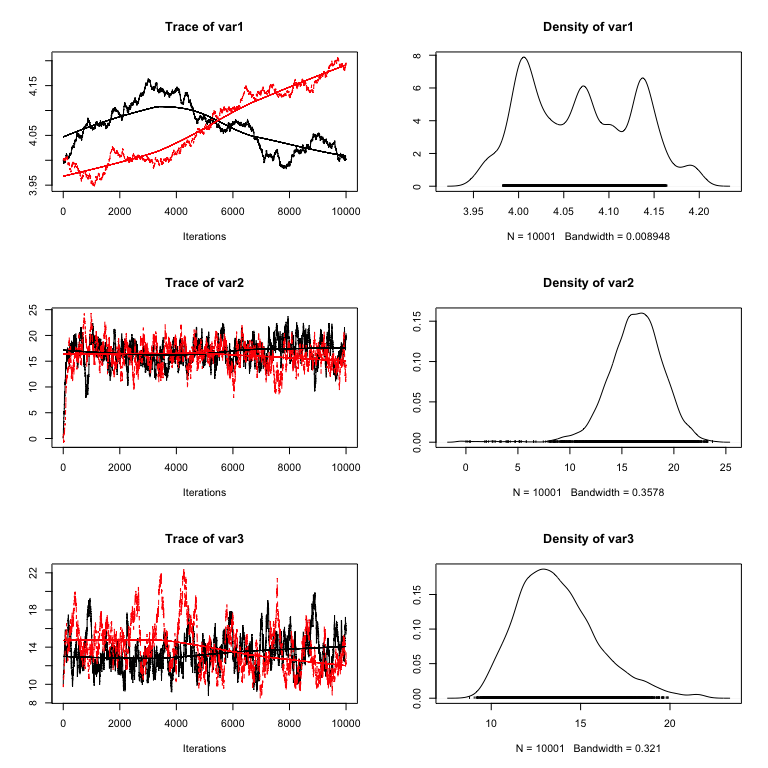
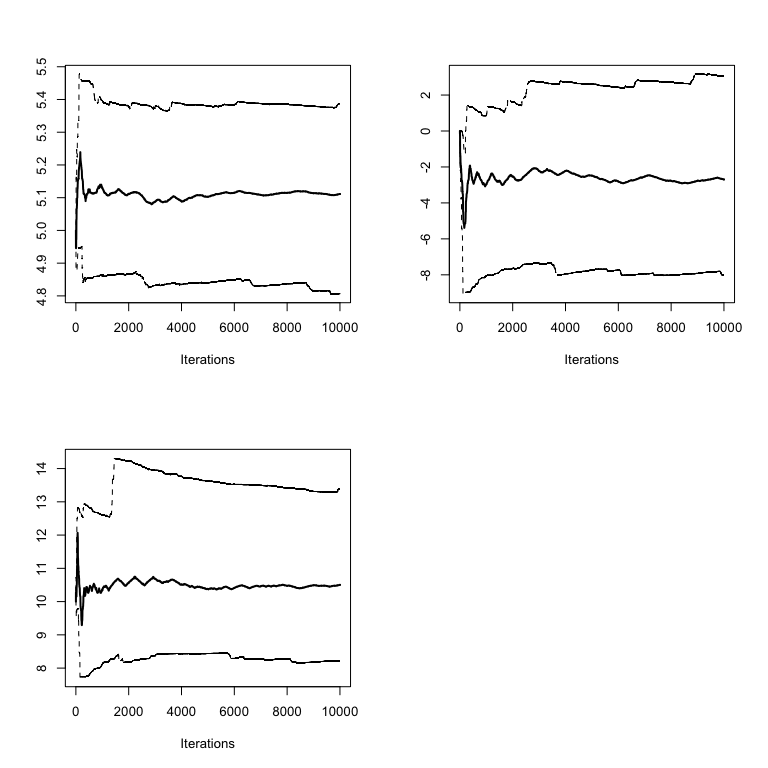
minor updates

diff --git a/CommentedCode/02-Samplers/MCMC/Convergence.md b/CommentedCode/02-Samplers/MCMC/Convergence.md
@@ -248,13 +248,28 @@ gelman.diag(combinedchains)
 ## 1.06
 ```
 
+The gelman.diag gives you the scale reduction factors for each parameter. A factor of 1 means that between variance and within chain variance are equal, larger values mean that there is still a notable difference between chains. Often, it is said that everything below 1.1 or 1.05 or so is OK, but note that this is more a rule of thumb, and also depends what you want to estimate of the chain. Look at this plot, which shows the development of the 0.025,0.5,0.975 quantiles over time for each parameter. 
+
+
+```r
+cumuplot(chain)
+```
+
+![](Convergence_files/figure-html/unnamed-chunk-3-1.png) 
+
+The point to note here is that the median typically stabalizes a lot quicker than the 0.025 quantiles, or other extreme value statistics such as the max, which one should expect when sampling from a distribution. The recommendations for the gelman diagnostics are derived for estimations of central summary statistics of the chain, such as median and mean. If you want to estimate other properties, you may want to be more critical. 
+
+Another issue about the gelman-diag is that the diagnostics itself is quite variable. Therefore it is highly recommended to look at the following plot
+
+
 ```r
 gelman.plot(combinedchains)
 ```
 
-![](Convergence_files/figure-html/Convergence_diagnostics-2.png) 
+![](Convergence_files/figure-html/unnamed-chunk-4-1.png) 
 
-The gelman.diag gives you the scale reduction factors for each parameter. A factor of 1 means that between variance and within chain variance are equal, larger values mean that there is still a notable difference between chains. Often, it is said that everything below 1.1 or so is OK, but note that this is more a rule of thumb. The gelman,plot shows you the development of the scale-reduction over time (chain steps), which is useful to see whether a low chain reduction is also stable (sometimes, the factors go down and then up again, as you will see). Also, note that for any real analysis, you have to make sure to discard any bias that arises from the starting point of your chain (burn-in), typical values here are a few 1000-10000 steps. The gelman plot is also a nice tool to see roughly where this point is, that is, from which point on the chains seem roughly converged.
+The gelman,plot shows you the development of the scale-reduction over time (chain steps), which is useful to see whether a low chain reduction is also stable (sometimes, the factors go down and then up again, as you will see). Also, note that for any real analysis, you have to make sure to discard any bias that arises from the starting point of your chain (burn-in), typical values here are a few 1000-10000 steps. The gelman plot is also a nice tool to see roughly where this point is, that is, from which point on the chains seem roughly converged.
+
 
 ## Improving convergence / mixing
 
@@ -282,7 +297,7 @@ combinedchains = mcmc.list(chain1, chain2)
 plot(combinedchains)
 ```
 
-![](Convergence_files/figure-html/unnamed-chunk-3-1.png) 
+![](Convergence_files/figure-html/unnamed-chunk-5-1.png) 
 
 ```r
 #gelman.plot(combinedchains)
@@ -301,7 +316,7 @@ combinedchains = mcmc.list(chain1, chain2)
 plot(combinedchains)
 ```
 
-![](Convergence_files/figure-html/unnamed-chunk-4-1.png) 
+![](Convergence_files/figure-html/unnamed-chunk-6-1.png) 
 
 ```r
 #gelman.plot(combinedchains)
